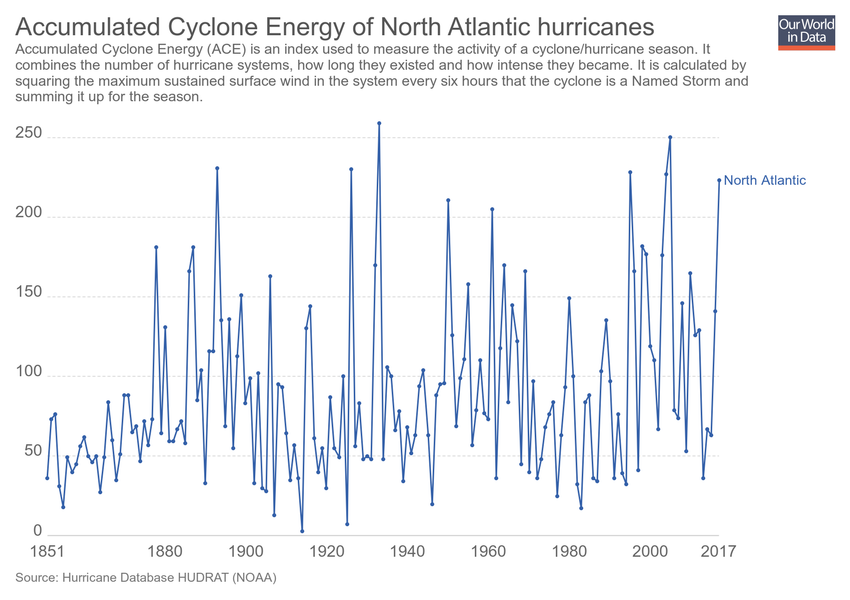
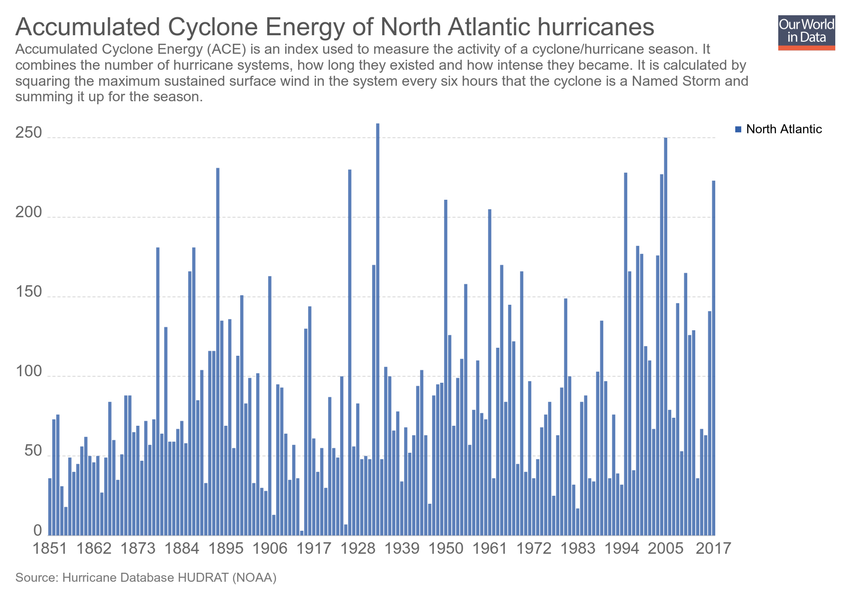
Updating chart ace-north-atlantic-hurricanes

Changed region(s): [[0.0306, 0.21, 0.9482, 0.93], [0.8565, 0.21, 0.9788, 0.24], [0.3059, 0.45, 0.3365, 0.48]]

diff --git a/grapher/ace-north-atlantic-hurricanes.html b/grapher/ace-north-atlantic-hurricanes.html
@@ -1,4 +1,4 @@
-<!doctype html><html><head><meta name="viewport" content="width=device-width, initial-scale=1" /><title>Accumulated Cyclone Energy of North Atlantic hurricanes - Our World in Data</title><meta name="description" content="Accumulated Cyclone Energy (ACE) is an index used to measure the activity of a cyclone/hurricane season. It combines the number of hurricane systems, how long they existed and how intense they became. It is calculated by squaring the maximum sustained surface wind in the system every six hours that the cyclone is a Named Storm and summing it up for the season. " /><link rel="canonical" href="https://ourworldindata.org/grapher/ace-north-atlantic-hurricanes" /><meta property="fb:app_id" content="1149943818390250" /><meta property="og:url" content="https://ourworldindata.org/grapher/ace-north-atlantic-hurricanes" /><meta property="og:title" content="Accumulated Cyclone Energy of North Atlantic hurricanes" /><meta property="og:description" content="Accumulated Cyclone Energy (ACE) is an index used to measure the activity of a cyclone/hurricane season. It combines the number of hurricane systems, how long they existed and how intense they became. It is calculated by squaring the maximum sustained surface wind in the system every six hours that the cyclone is a Named Storm and summing it up for the season. " /><meta property="og:image" content="https://ourworldindata.org/grapher/exports/ace-north-atlantic-hurricanes.png?v=1" /><meta property="og:image:width" content="850" /><meta property="og:image:height" content="600" /><meta property="og:site_name" content="Our World in Data" /><meta name="twitter:card" content="summary_large_image" /><meta name="twitter:site" content="@OurWorldInData" /><meta name="twitter:creator" content="@OurWorldInData" /><meta name="twitter:title" content="Accumulated Cyclone Energy of North Atlantic hurricanes" /><meta name="twitter:description" content="Accumulated Cyclone Energy (ACE) is an index used to measure the activity of a cyclone/hurricane season. It combines the number of hurricane systems, how long they existed and how intense they became. It is calculated by squaring the maximum sustained surface wind in the system every six hours that the cyclone is a Named Storm and summing it up for the season. " /><meta name="twitter:image" content="https://ourworldindata.org/grapher/exports/ace-north-atlantic-hurricanes.png?v=1" /><style>
+<!doctype html><html><head><meta name="viewport" content="width=device-width, initial-scale=1" /><title>Accumulated Cyclone Energy of North Atlantic hurricanes - Our World in Data</title><meta name="description" content="Accumulated Cyclone Energy (ACE) is an index used to measure the activity of a cyclone/hurricane season. It combines the number of hurricane systems, how long they existed and how intense they became. It is calculated by squaring the maximum sustained surface wind in the system every six hours that the cyclone is a Named Storm and summing it up for the season. " /><link rel="canonical" href="https://ourworldindata.org/grapher/ace-north-atlantic-hurricanes" /><meta property="fb:app_id" content="1149943818390250" /><meta property="og:url" content="https://ourworldindata.org/grapher/ace-north-atlantic-hurricanes" /><meta property="og:title" content="Accumulated Cyclone Energy of North Atlantic hurricanes" /><meta property="og:description" content="Accumulated Cyclone Energy (ACE) is an index used to measure the activity of a cyclone/hurricane season. It combines the number of hurricane systems, how long they existed and how intense they became. It is calculated by squaring the maximum sustained surface wind in the system every six hours that the cyclone is a Named Storm and summing it up for the season. " /><meta property="og:image" content="https://ourworldindata.org/grapher/exports/ace-north-atlantic-hurricanes.png?v=3" /><meta property="og:image:width" content="850" /><meta property="og:image:height" content="600" /><meta property="og:site_name" content="Our World in Data" /><meta name="twitter:card" content="summary_large_image" /><meta name="twitter:site" content="@OurWorldInData" /><meta name="twitter:creator" content="@OurWorldInData" /><meta name="twitter:title" content="Accumulated Cyclone Energy of North Atlantic hurricanes" /><meta name="twitter:description" content="Accumulated Cyclone Energy (ACE) is an index used to measure the activity of a cyclone/hurricane season. It combines the number of hurricane systems, how long they existed and how intense they became. It is calculated by squaring the maximum sustained surface wind in the system every six hours that the cyclone is a Named Storm and summing it up for the season. " /><meta name="twitter:image" content="https://ourworldindata.org/grapher/exports/ace-north-atlantic-hurricanes.png?v=3" /><style>
         html, body {
             height: 100%;
             margin: 0;
@@ -20,8 +20,8 @@
         }
     </style><noscript><style>
                     figure { display: none !important; }
-                </style></noscript><link rel="stylesheet" href="https://ourworldindata.org/grapher/assets/commons.bundle.1fb9afe5c9103588de22.css" /><link rel="preload" href="/grapher/data/variables/98054.json?v=1" as="fetch" crossorigin /></head><body class="singleChart"><figure data-grapher-src="/grapher/ace-north-atlantic-hurricanes"></figure><noscript id="fallback"><img src="/grapher/exports/ace-north-atlantic-hurricanes.svg" /><p>Interactive visualization requires JavaScript</p></noscript><script src="https://cdn.polyfill.io/v2/polyfill.min.js?features=es6,fetch"></script><script src="https://ourworldindata.org/grapher/assets/commons.bundle.1fb9afe5c9103588de22.js"></script><script src="https://ourworldindata.org/grapher/assets/charts.bundle.1fb9afe5c9103588de22.js"></script><script>
-        var jsonConfig = {"map":{"projection":"World","colorSchemeLabels":[],"colorSchemeValues":[],"customNumericColors":[],"customCategoryColors":{},"customCategoryLabels":{},"customHiddenCategories":{}},"tab":"chart","slug":"ace-north-atlantic-hurricanes","type":"LineChart","title":"Accumulated Cyclone Energy of North Atlantic hurricanes","xAxis":{"scaleType":"linear"},"yAxis":{"min":0,"scaleType":"linear"},"version":1,"subtitle":"Accumulated Cyclone Energy (ACE) is an index used to measure the activity of a cyclone/hurricane season. It combines the number of hurricane systems, how long they existed and how intense they became. It is calculated by squaring the maximum sustained surface wind in the system every six hours that the cyclone is a Named Storm and summing it up for the season. ","hasMapTab":false,"stackMode":"absolute","dimensions":[{"display":{},"property":"y","variableId":98054}],"sourceDesc":"Hurricane Database HUDRAT (NOAA)","hasChartTab":true,"isPublished":true,"selectedData":[{"index":0,"entityId":37804}],"addCountryMode":"add-country","hideTitleAnnotation":true,"id":3052};
+                </style></noscript><link rel="stylesheet" href="https://ourworldindata.org/grapher/assets/commons.bundle.1fb9afe5c9103588de22.css" /><link rel="preload" href="/grapher/data/variables/98054.json?v=3" as="fetch" crossorigin /></head><body class="singleChart"><figure data-grapher-src="/grapher/ace-north-atlantic-hurricanes"></figure><noscript id="fallback"><img src="/grapher/exports/ace-north-atlantic-hurricanes.svg" /><p>Interactive visualization requires JavaScript</p></noscript><script src="https://cdn.polyfill.io/v2/polyfill.min.js?features=es6,fetch"></script><script src="https://ourworldindata.org/grapher/assets/commons.bundle.1fb9afe5c9103588de22.js"></script><script src="https://ourworldindata.org/grapher/assets/charts.bundle.1fb9afe5c9103588de22.js"></script><script>
+        var jsonConfig = {"id":3052,"map":{"projection":"World","colorSchemeLabels":[],"colorSchemeValues":[],"customNumericColors":[],"customCategoryColors":{},"customCategoryLabels":{},"customHiddenCategories":{}},"tab":"chart","slug":"ace-north-atlantic-hurricanes","type":"StackedBar","title":"Accumulated Cyclone Energy of North Atlantic hurricanes","xAxis":{"scaleType":"linear"},"yAxis":{"min":0,"scaleType":"linear"},"version":3,"subtitle":"Accumulated Cyclone Energy (ACE) is an index used to measure the activity of a cyclone/hurricane season. It combines the number of hurricane systems, how long they existed and how intense they became. It is calculated by squaring the maximum sustained surface wind in the system every six hours that the cyclone is a Named Storm and summing it up for the season. ","hasMapTab":false,"stackMode":"absolute","dimensions":[{"display":{},"property":"y","variableId":98054}],"sourceDesc":"Hurricane Database HUDRAT (NOAA)","hasChartTab":true,"isPublished":true,"selectedData":[{"index":0,"entityId":37804}],"addCountryMode":"add-country","hideTitleAnnotation":true};
         var figure = document.getElementsByTagName("figure")[0];
         try {
             window.App = {};
